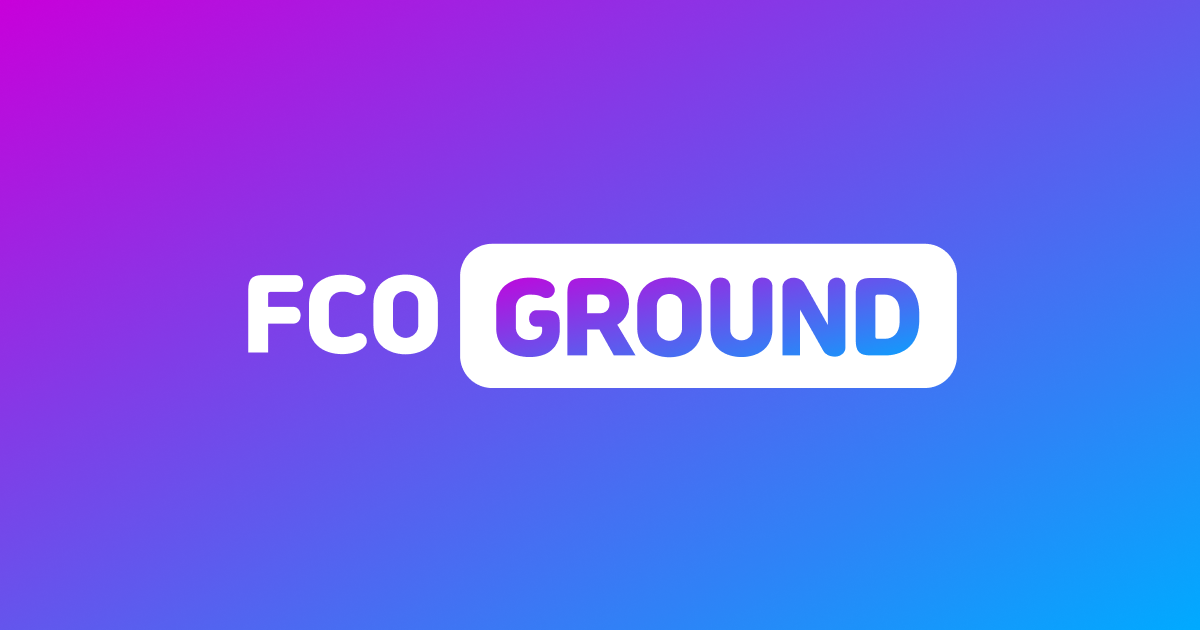
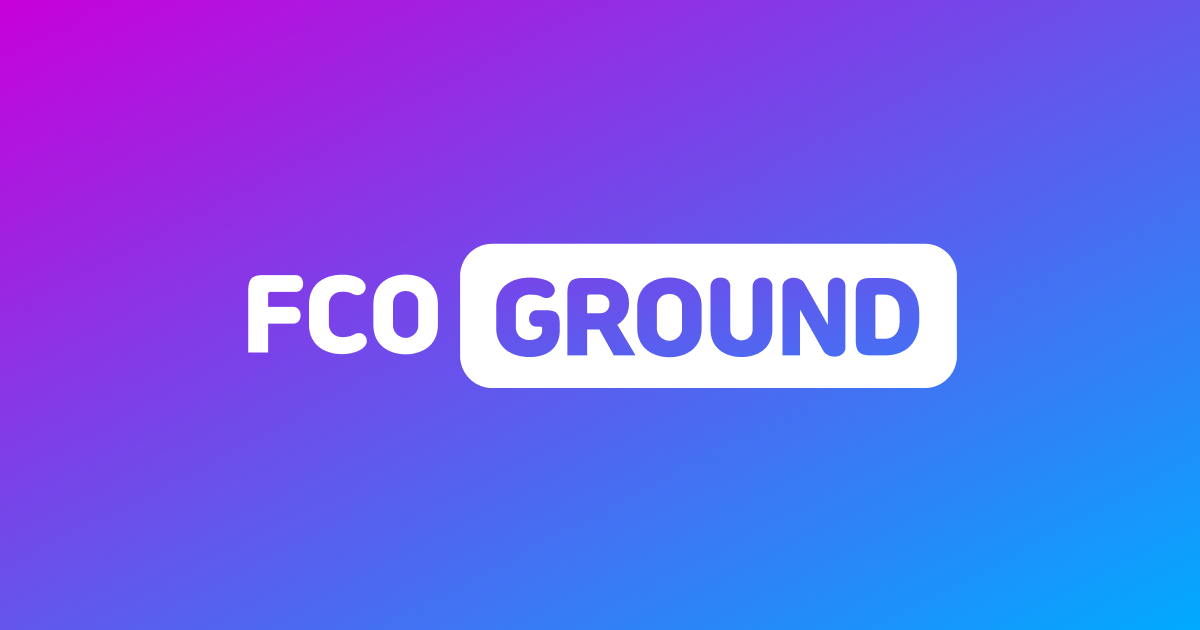
release: 23.12 — OG 이미지 업데이트

Changed region(s): [[0.4008, 0.4222, 0.6167, 0.5429], [0.6475, 0.4825, 0.7708, 0.573]]

diff --git a/apps/fconline/src/lib/appVersion.ts b/apps/fconline/src/lib/appVersion.ts
@@ -3,6 +3,7 @@ import pkg from '../../package.json'
 export const APP_VERSION = pkg.version
 
 export const RELEASE_PUBLISHED_AT_BY_VERSION: Record<string, string> = {
+  '23.12': '2026-04-29T21:30:00+09:00',
   '23.11': '2026-04-29T21:00:00+09:00',
   '23.10': '2026-04-29T20:30:00+09:00',
   '23.9': '2026-04-29T20:00:00+09:00',
@@ -20,6 +21,9 @@ export const RELEASE_PUBLISHED_AT_BY_VERSION: Record<string, string> = {
 }
 
 export const RELEASE_NOTES_BY_VERSION: Record<string, string[]> = {
+  '23.12': [
+    'OG 이미지를 업데이트했습니다.',
+  ],
   '23.11': [
     'Google Search Console 소유권 인증 메타태그를 추가했습니다.',
   ],
